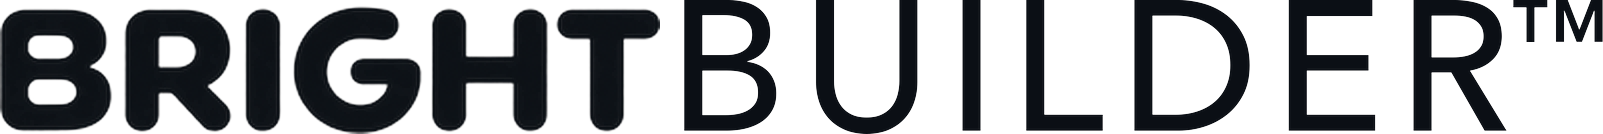
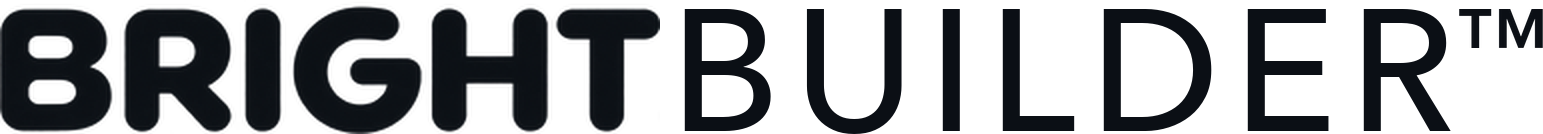
BrightBuilder: BUILDER exactly BRIGHT's height; headline 'Build your website in / Seven. Simple. Steps.' at one size

diff --git a/mobile-app/App.tsx b/mobile-app/App.tsx
@@ -2716,7 +2716,7 @@ function AppInner({ onSignedOut }: { onSignedOut: () => void }) {
     <Modal visible={builderIntro} animationType="fade" onRequestClose={closeBuilderIntro}>
       <View style={s.bbIntro}>
         <Image source={require('./assets/brightbuilder.png')} resizeMode="contain" style={s.bbIntroLogo} />
-        <View style={{ alignItems: 'center' }}><Text style={s.bbIntroLead}>Build your website in</Text><Text style={s.bbIntroTitle}>Seven. Simple. Steps.</Text></View>
+        <Text style={s.bbIntroTitle}>Build your website in{'\n'}Seven. Simple. Steps.</Text>
         <Text style={s.bbIntroText}>Fill in each card as you go. Skip anything you like and change it later.</Text>
         <Pressable onPress={closeBuilderIntro} style={({ pressed }) => [s.authSubmit, { alignSelf: 'stretch' }, pressed && s.pressed]}><Text style={s.authSubmitText}>Let’s start</Text></Pressable>
         <View style={s.bbIntroTime}><Ionicons name="time-outline" size={15} color={C.primary} /><Text style={s.bbIntroHintText}>Under 10 minutes</Text></View>
@@ -2971,10 +2971,9 @@ const s = StyleSheet.create({
   billingSave: { fontFamily: FONT, fontSize: 11, fontWeight: '800', color: C.success },
   planModalTotal: { fontFamily: FONT, fontSize: 13, fontWeight: '600', color: C.inkSoft, marginTop: 6, textAlign: 'center' },
   bbIntro: { flex: 1, backgroundColor: C.card, alignItems: 'center', justifyContent: 'center', paddingHorizontal: 30, gap: 18 },
-bbIntroLogo: { width: SCREEN_WIDTH - 90, height: (SCREEN_WIDTH - 90) * 134 / 1603, marginBottom: 18 },
+bbIntroLogo: { width: SCREEN_WIDTH - 90, height: (SCREEN_WIDTH - 90) * 134 / 1543, marginBottom: 18 },
 bbIntroTitle: { fontFamily: FONT, fontSize: 26, fontWeight: '900', color: C.ink, textAlign: 'center' },
 bbIntroTime: { flexDirection: 'row', alignItems: 'center', gap: 6, paddingHorizontal: 14, paddingVertical: 7, borderRadius: 999, backgroundColor: C.primarySoft },
-bbIntroLead: { fontFamily: FONT, fontSize: 18, fontWeight: '600', color: C.inkSoft, textAlign: 'center', marginBottom: 4 },
 bbIntroText: { fontFamily: FONT, fontSize: 16, lineHeight: 23, color: C.inkSoft, textAlign: 'center', marginBottom: 14 },
 bbIntroHintText: { fontFamily: FONT, fontSize: 14, fontWeight: '700', color: C.primary },
 savedPill: { position: 'absolute', top: SAFE_TOP + 86, alignSelf: 'center', zIndex: 200, flexDirection: 'row', alignItems: 'center', gap: 6, paddingHorizontal: 12, paddingVertical: 6, borderRadius: 999, backgroundColor: 'rgba(28,40,50,.82)' },

diff --git a/account/dashboard.html b/account/dashboard.html
@@ -83,7 +83,6 @@
   .bb-intro[hidden]{display:none}
   .bb-intro-card{max-width:440px;text-align:center;font-family:'Avenir Next','Avenir','Nunito Sans',sans-serif;color:#1C2832}
   .bb-intro-logo{width:min(340px,80vw);height:auto;margin-bottom:28px}
-  .bb-intro-lead{display:block;font-size:18px;font-weight:600;color:rgba(28,40,50,.72);margin-bottom:4px}
   .bb-intro-card h2{font-size:26px;font-weight:900;margin:0 0 12px}
   .bb-intro-time{display:inline-block;margin:16px 0 0;padding:7px 14px;border-radius:999px;background:rgba(59,130,246,.10);color:#3B82F6;font-size:14px;font-weight:700}
   .bb-intro-card p{font-size:16px;line-height:1.45;color:rgba(28,40,50,.72);margin:0 0 26px}
@@ -798,8 +797,7 @@
       <div class="bb-intro" id="bbIntro" hidden role="dialog" aria-modal="true" aria-label="Welcome to BrightBuilder">
         <div class="bb-intro-card">
           <img src="/img/brightbuilder.png" alt="BrightBuilder" class="bb-intro-logo">
-          <span class="bb-intro-lead">Build your website in</span>
-          <h2>Seven. Simple. Steps.</h2>
+          <h2>Build your website in<br>Seven. Simple. Steps.</h2>
           <p>Fill in each info card and save as you go. Skip anything you like and change it later. When you’re done, send it to your designer.</p>
           <button type="button" id="bbIntroStart">Let’s start</button>
           <span class="bb-intro-time">Under 10 minutes</span>
